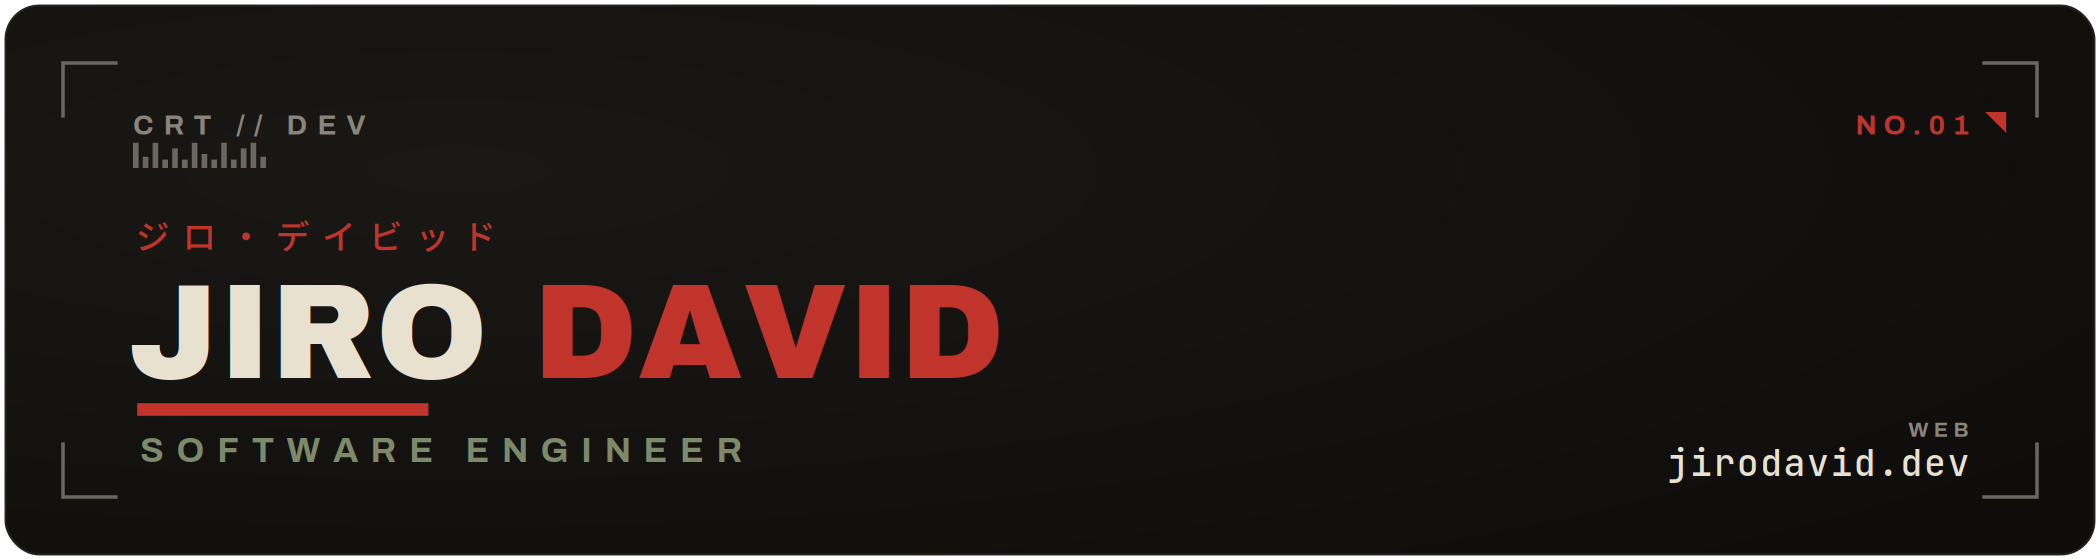
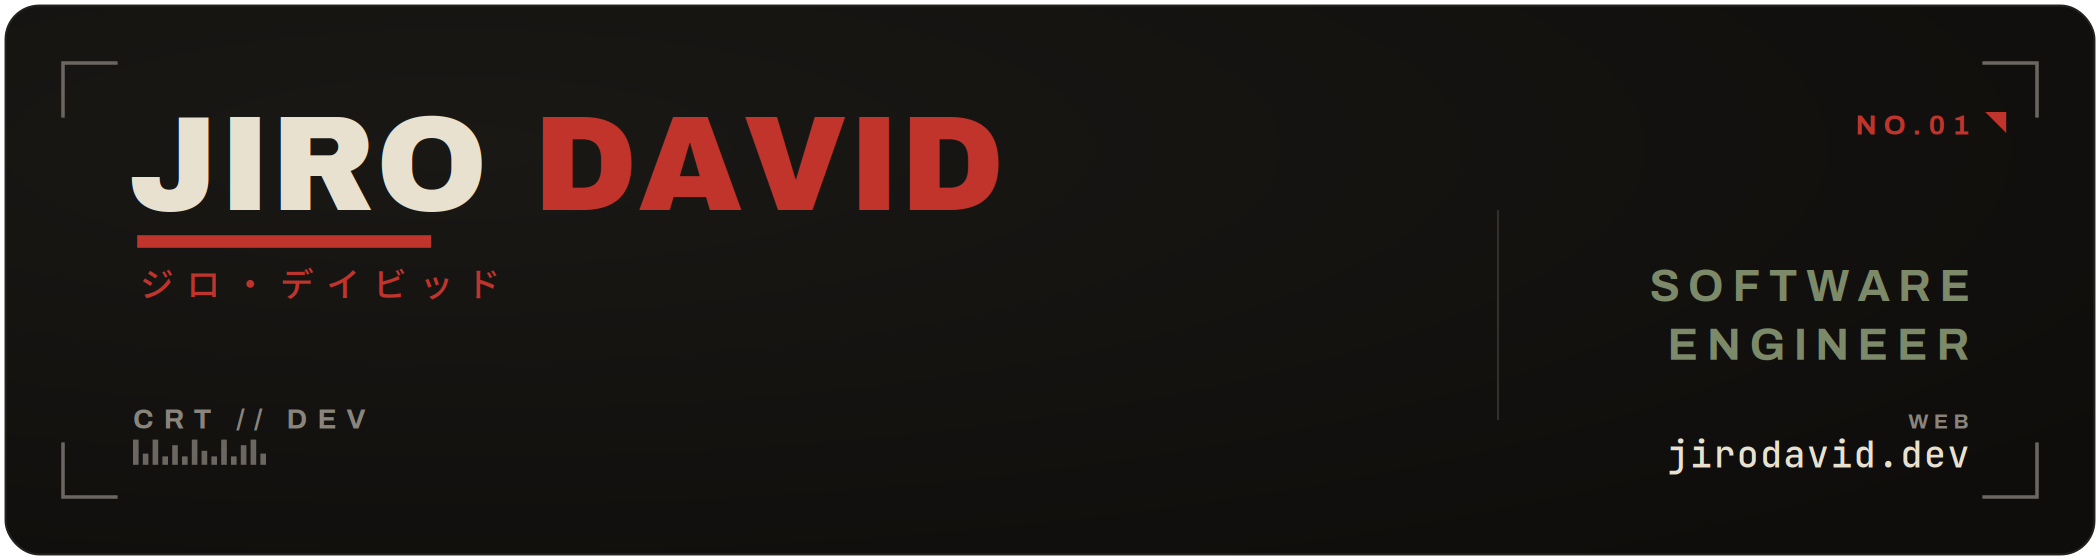
Make name the hero on top with katakana beneath, demote CRT tag

diff --git a/README.md b/README.md
@@ -1,5 +1,5 @@
 <p align="center">
-  <img src="https://raw.githubusercontent.com/JiroDavid/JiroDavid/main/assets/banner.png?v=3" alt="Jiro David" width="100%"/>
+  <img src="https://raw.githubusercontent.com/JiroDavid/JiroDavid/main/assets/banner.png?v=4" alt="Jiro David" width="100%"/>
 </p>
 
 ### ABOUT 🔻
